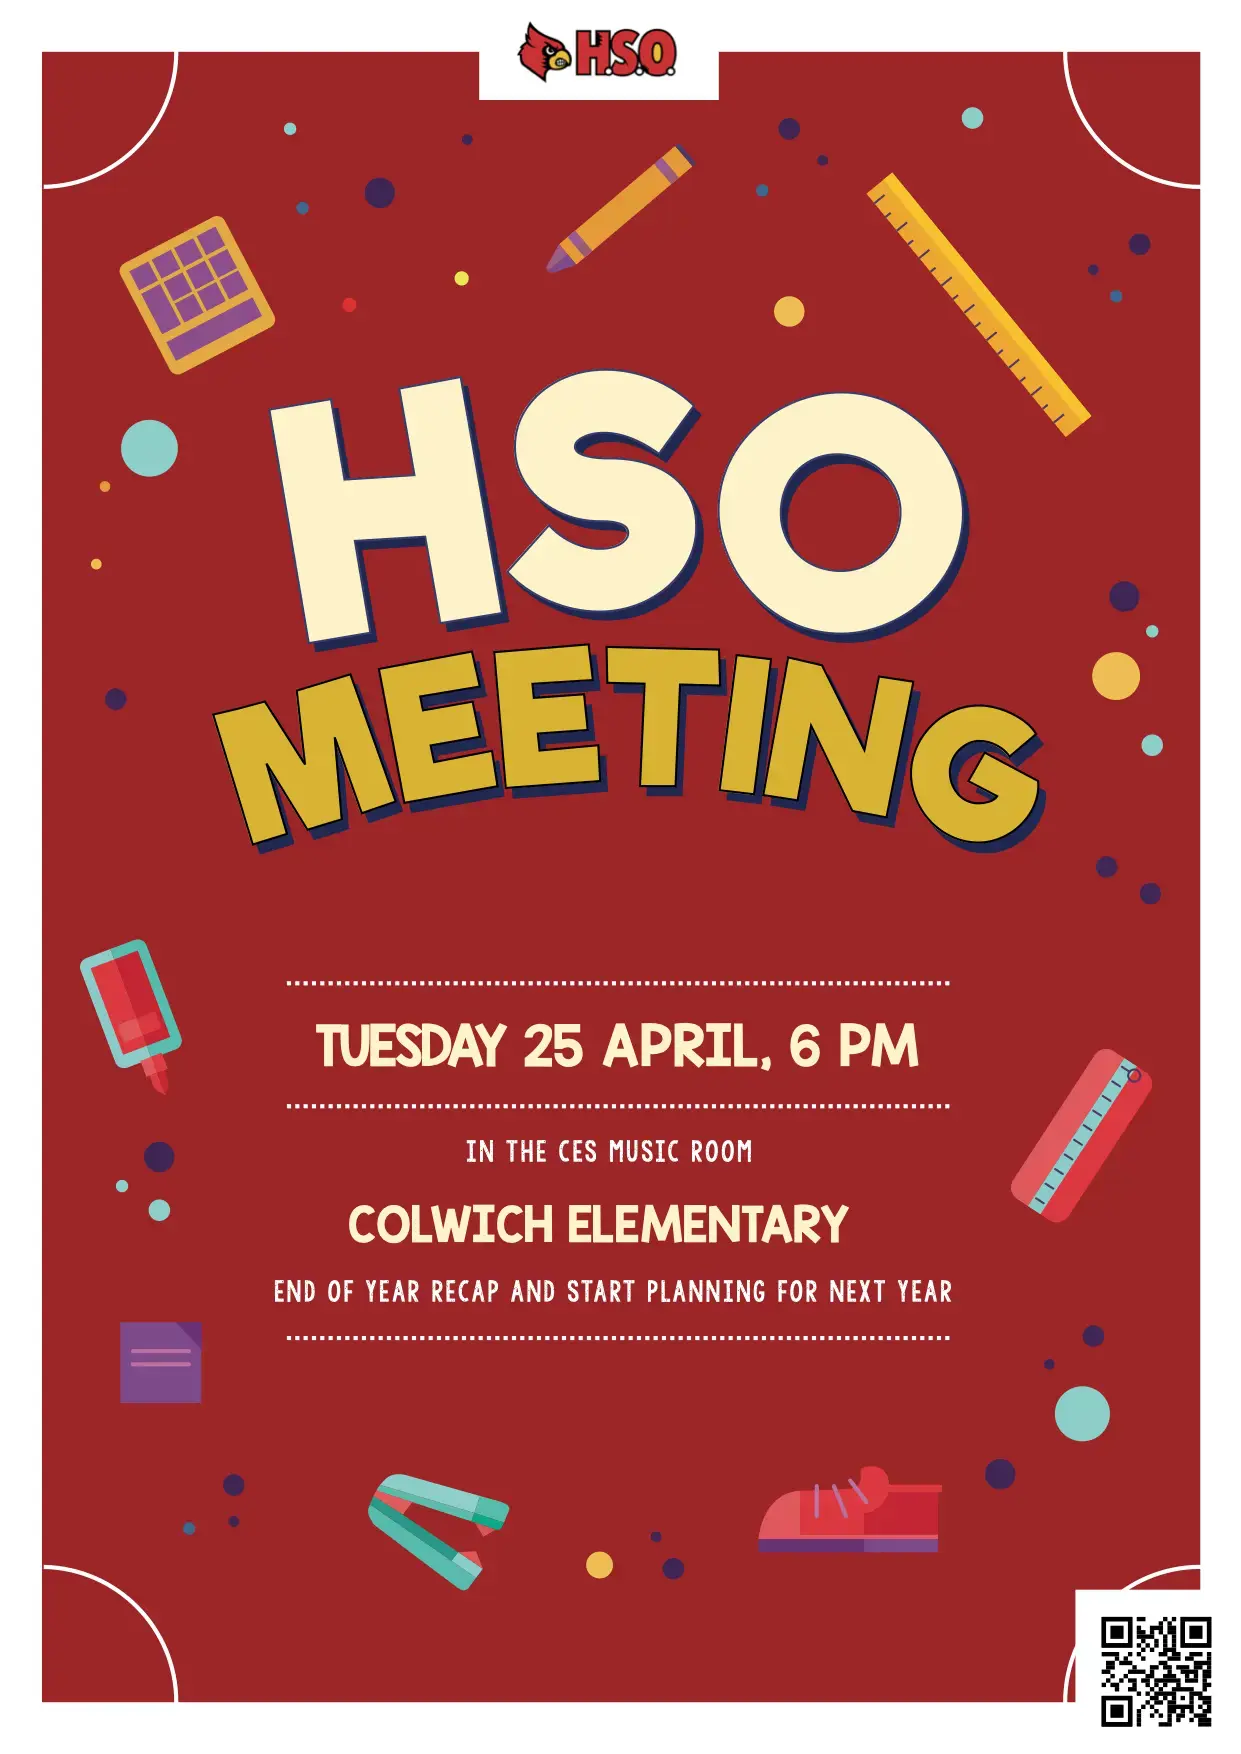
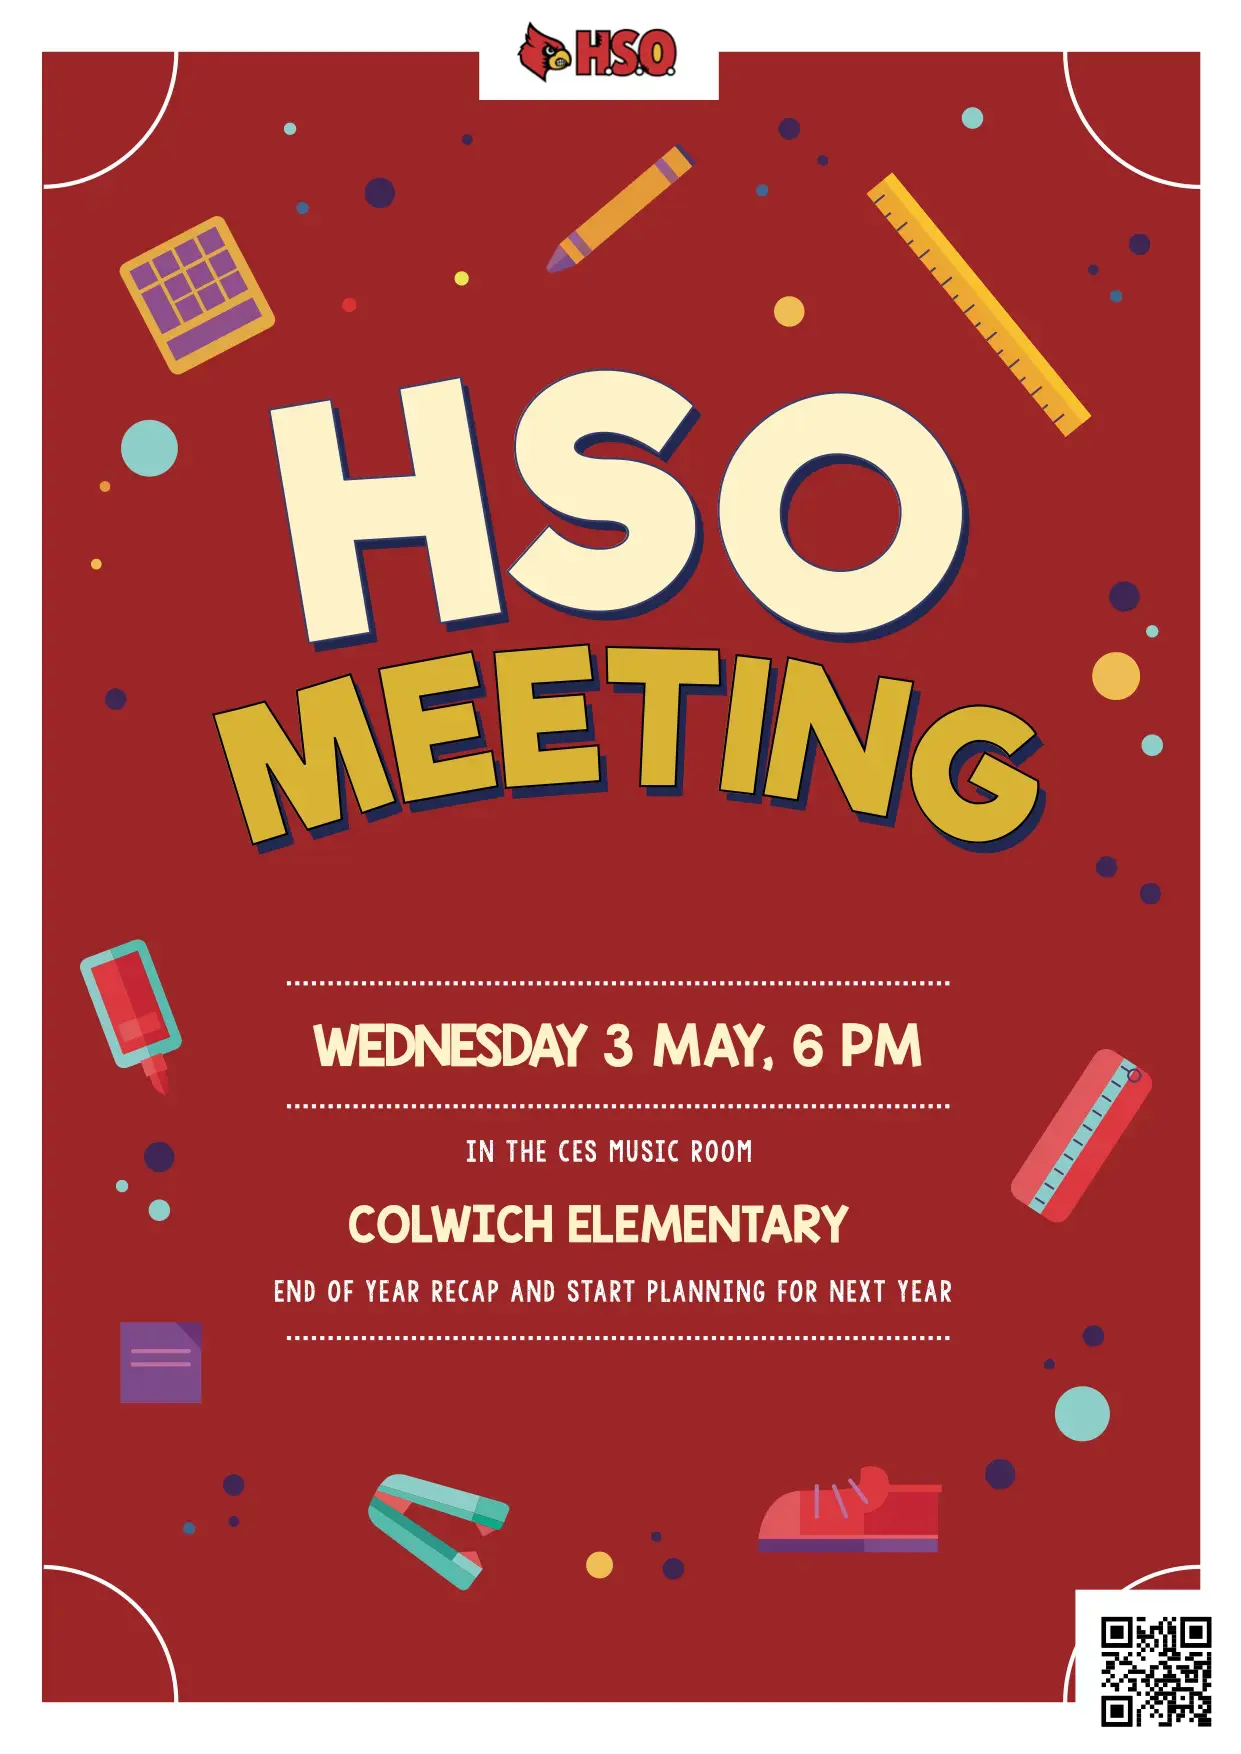
hso meeting

Changed region(s): [[0.245, 0.5849, 0.7349, 0.6157]]

diff --git a/content/events/meeting4.md b/content/events/meeting4.md
@@ -2,7 +2,7 @@
 title: 4th HSO Meeting 🗓
 description: Our fourth meeting of the year to set goals for the next school year.
 type: events
-event_date: 2023-04-25 6:00:00 +0000
+event_date: 2023-05-03 6:00:00 +0000
 url: "/meetings/05062023"
 fullUrl: "https://colwichhso.com/meetings/05062023"
 pageImage: "https://colwichhso.com/images/flyers/HSOMeetingOpenGraph.jpg"
